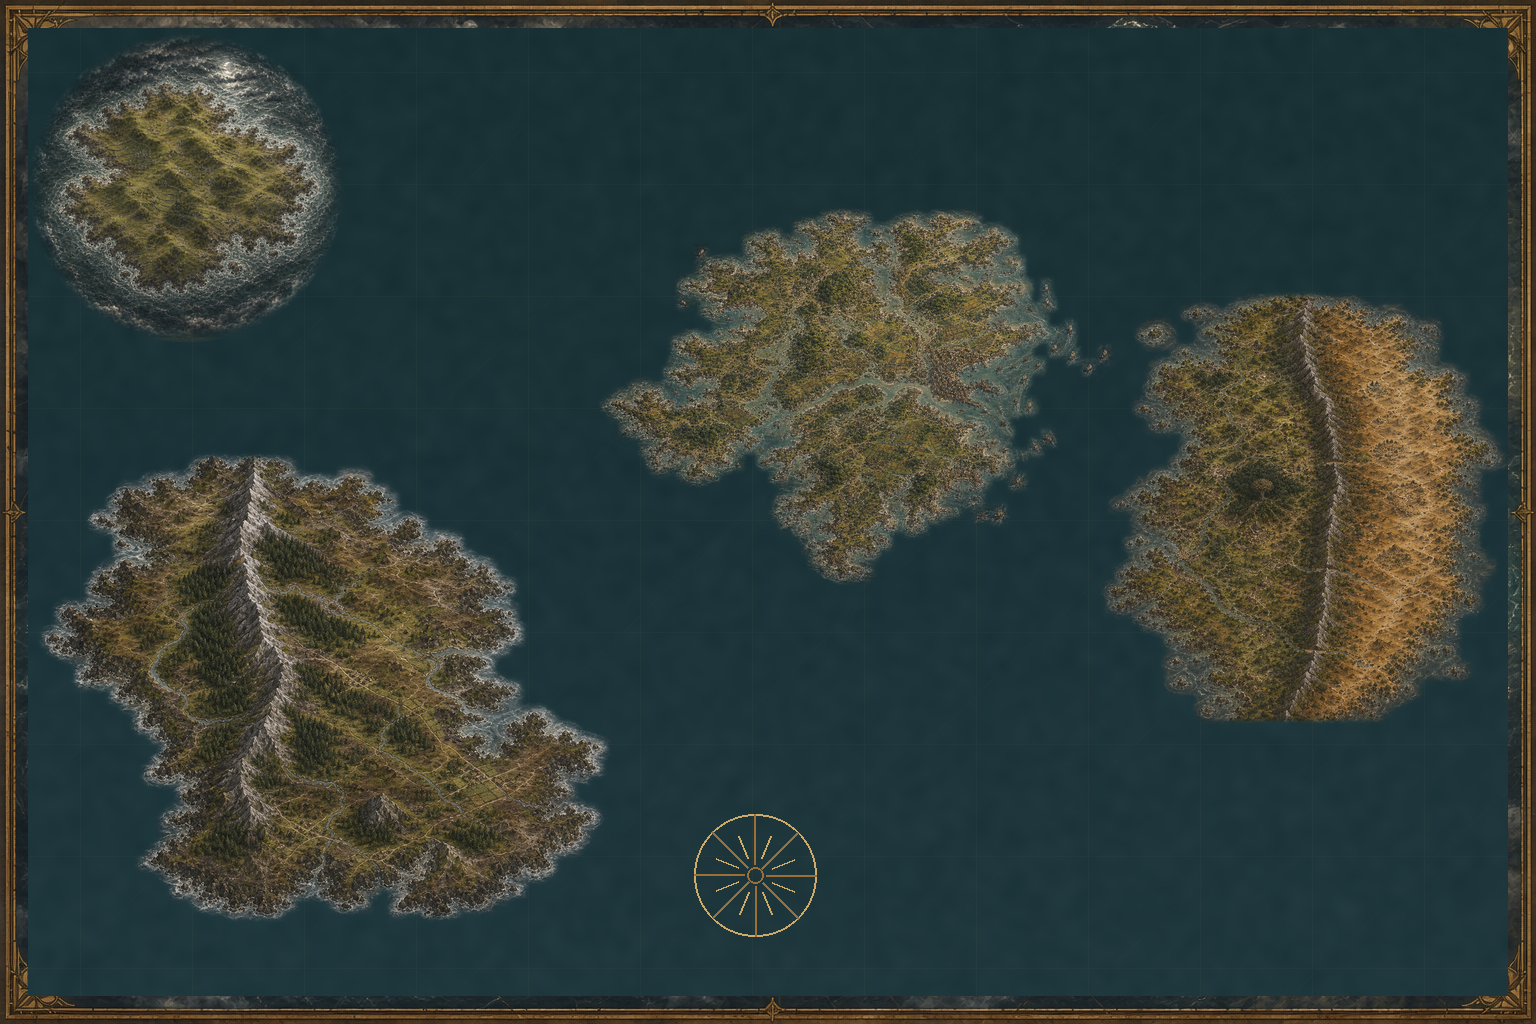
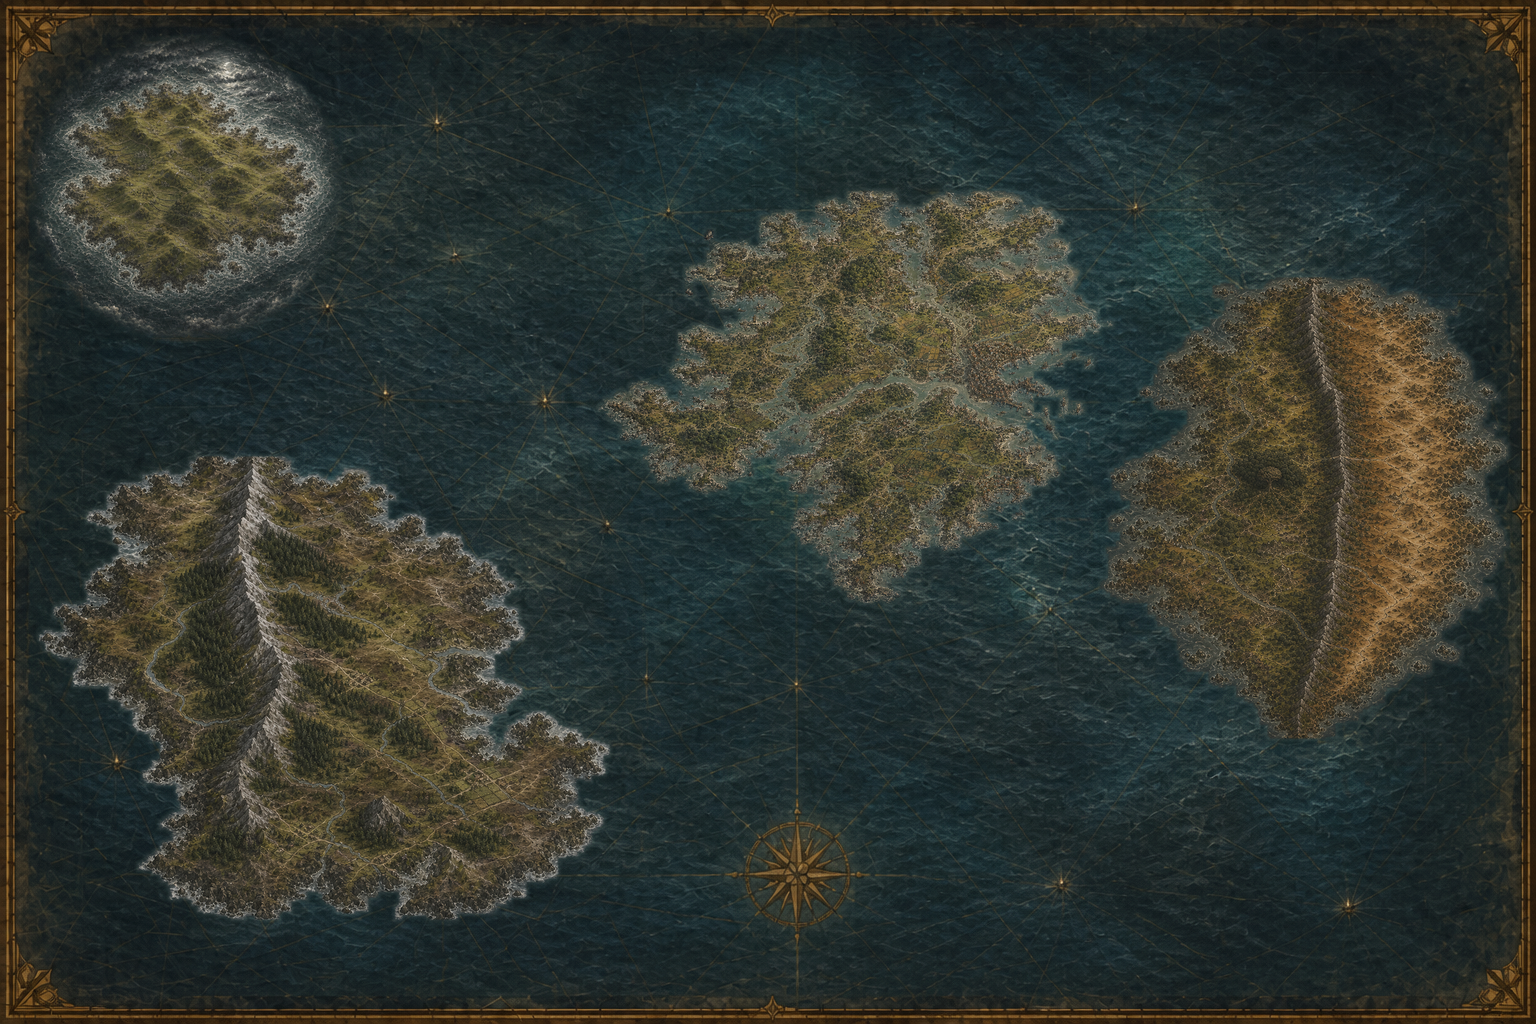
Blend Prototype 3 world atlas

diff --git a/14 - Assets/Maps/build_prototype3_world.py b/14 - Assets/Maps/build_prototype3_world.py
@@ -10,15 +10,15 @@ from __future__ import annotations
 
 from collections import deque
 from pathlib import Path
-import random
 
 import numpy as np
-from PIL import Image, ImageDraw, ImageFilter
+from PIL import Image, ImageChops, ImageEnhance, ImageFilter
 
 
 ROOT = Path(__file__).resolve().parent
 PROTOTYPE = ROOT / "prototype3"
 OUTPUT = PROTOTYPE / "The-Turning-World-Atlas.png"
+OCEAN = PROTOTYPE / "Painted-Ocean-Background.png"
 WIDTH, HEIGHT = 1536, 1024
 
 
@@ -119,15 +119,15 @@ def extract_land(path: Path) -> Image.Image:
     seed[:, :12] = False
     seed[:, -12:] = False
     rough = Image.fromarray(np.uint8(seed) * 255, "L")
-    rough = rough.filter(ImageFilter.MaxFilter(11))
-    rough = rough.filter(ImageFilter.MinFilter(7))
+    rough = rough.filter(ImageFilter.MaxFilter(7))
+    rough = rough.filter(ImageFilter.MinFilter(5))
     component = largest_component(np.asarray(rough) > 127)
     component = fill_holes(component)
 
     mask = Image.fromarray(np.uint8(component) * 255, "L")
     mask = mask.resize(source.size, Image.Resampling.NEAREST)
-    mask = mask.filter(ImageFilter.MaxFilter(9))
-    mask = mask.filter(ImageFilter.GaussianBlur(5))
+    mask = mask.filter(ImageFilter.MaxFilter(3))
+    mask = mask.filter(ImageFilter.GaussianBlur(1.5))
 
     alpha = np.asarray(mask)
     ys, xs = np.where(alpha > 8)
@@ -143,38 +143,11 @@ def extract_land(path: Path) -> Image.Image:
 
 
 def ocean_background() -> Image.Image:
-    """Create a dark portolan ocean while retaining the established frame."""
-    rng = np.random.default_rng(20260831)
-    base = np.zeros((HEIGHT, WIDTH, 3), dtype=np.float32)
-    vertical = np.linspace(0, 1, HEIGHT, dtype=np.float32)[:, None]
-    base[..., 0] = 25 + 6 * vertical
-    base[..., 1] = 48 + 8 * vertical
-    base[..., 2] = 52 + 10 * vertical
-
-    noise = rng.normal(0, 1, (HEIGHT // 8, WIDTH // 8)).astype(np.float32)
-    texture = Image.fromarray(np.uint8(np.clip(128 + noise * 26, 0, 255)), "L")
-    texture = texture.resize((WIDTH, HEIGHT), Image.Resampling.BICUBIC)
-    texture = texture.filter(ImageFilter.GaussianBlur(5))
-    grain = (np.asarray(texture, dtype=np.float32) - 128) / 11
-    base += grain[..., None]
-
-    image = Image.fromarray(np.uint8(np.clip(base, 0, 255)), "RGB").convert("RGBA")
-    overlay = Image.new("RGBA", image.size, (0, 0, 0, 0))
-    draw = ImageDraw.Draw(overlay, "RGBA")
-
-    # Faint graticule and current-lines.
-    for x in range(80, WIDTH, 112):
-        draw.line((x, 24, x, HEIGHT - 24), fill=(177, 151, 100, 10), width=1)
-    for y in range(72, HEIGHT, 112):
-        draw.line((24, y, WIDTH - 24, y), fill=(177, 151, 100, 9), width=1)
-    for offset in range(-HEIGHT, WIDTH, 210):
-        draw.line(
-            (offset, HEIGHT - 24, offset + HEIGHT, 24),
-            fill=(177, 151, 100, 6),
-            width=1,
-        )
-
-    return Image.alpha_composite(image, overlay)
+    """Load the painted ocean plate shared by every composited landmass."""
+    image = Image.open(OCEAN).convert("RGBA")
+    if image.size != (WIDTH, HEIGHT):
+        image = image.resize((WIDTH, HEIGHT), Image.Resampling.LANCZOS)
+    return image
 
 
 def resize_to_fit(image: Image.Image, width: int, height: int) -> Image.Image:
@@ -191,8 +164,30 @@ def paste_centered(
 ) -> None:
     left, top, right, bottom = box
     fitted = resize_to_fit(image, right - left, bottom - top)
+    fitted = ImageEnhance.Color(fitted).enhance(0.92)
+    fitted = ImageEnhance.Contrast(fitted).enhance(0.96)
     x = left + ((right - left) - fitted.width) // 2
     y = top + ((bottom - top) - fitted.height) // 2
+
+    # A dark wet edge and a narrow broken-surf edge seat the cutout into the
+    # shared ocean. Both derive from the exact master alpha, so neither changes
+    # the coastline.
+    alpha = fitted.getchannel("A")
+    wet_edge = alpha.filter(ImageFilter.MaxFilter(9)).filter(
+        ImageFilter.GaussianBlur(5)
+    )
+    wet_edge = wet_edge.point(lambda value: round(value * 0.12))
+    wet_layer = Image.new("RGBA", fitted.size, (8, 25, 28, 0))
+    wet_layer.putalpha(wet_edge)
+    canvas.alpha_composite(wet_layer, (x, y + 2))
+
+    outer = alpha.filter(ImageFilter.MaxFilter(5))
+    surf = ImageChops.subtract(outer, alpha)
+    surf = surf.filter(ImageFilter.GaussianBlur(1))
+    surf = surf.point(lambda value: round(value * 0.16))
+    surf_layer = Image.new("RGBA", fitted.size, (155, 176, 163, 0))
+    surf_layer.putalpha(surf)
+    canvas.alpha_composite(surf_layer, (x, y))
     canvas.alpha_composite(fitted, (x, y))
 
 
@@ -213,39 +208,17 @@ def storm_isle() -> Image.Image:
     return crop
 
 
-def draw_compass(canvas: Image.Image) -> None:
-    draw = ImageDraw.Draw(canvas, "RGBA")
-    cx, cy, radius = 755, 875, 61
-    ink = (155, 111, 54, 205)
-    faint = (205, 170, 104, 95)
-    draw.ellipse(
-        (cx - radius, cy - radius, cx + radius, cy + radius),
-        outline=faint,
-        width=2,
-    )
-    for step in range(16):
-        angle = np.pi * step / 8
-        inner = 11 if step % 2 == 0 else 19
-        outer = radius if step % 2 == 0 else 43
-        x1 = cx + int(np.sin(angle) * inner)
-        y1 = cy - int(np.cos(angle) * inner)
-        x2 = cx + int(np.sin(angle) * outer)
-        y2 = cy - int(np.cos(angle) * outer)
-        draw.line((x1, y1, x2, y2), fill=ink if step % 2 == 0 else faint, width=2)
-    draw.ellipse((cx - 8, cy - 8, cx + 8, cy + 8), outline=ink, width=2)
+def unify_atlas_hand(canvas: Image.Image) -> Image.Image:
+    """Apply one final wash and grain over sea and land together."""
+    wash = Image.new("RGBA", canvas.size, (34, 53, 46, 12))
+    canvas = Image.alpha_composite(canvas, wash)
 
-
-def restore_frame(canvas: Image.Image) -> None:
-    """Copy the established Prototype 3 parchment frame over the composite."""
-    frame = Image.open(OUTPUT).convert("RGBA")
-    strips = (
-        (0, 0, WIDTH, 28),
-        (0, HEIGHT - 28, WIDTH, HEIGHT),
-        (0, 0, 28, HEIGHT),
-        (WIDTH - 28, 0, WIDTH, HEIGHT),
-    )
-    for box in strips:
-        canvas.alpha_composite(frame.crop(box), (box[0], box[1]))
+    rng = np.random.default_rng(20260831)
+    noise = rng.normal(128, 18, (HEIGHT, WIDTH)).clip(0, 255).astype(np.uint8)
+    grain = Image.fromarray(noise, "L").filter(ImageFilter.GaussianBlur(0.35))
+    grain_layer = Image.new("RGBA", canvas.size, (174, 146, 94, 0))
+    grain_layer.putalpha(grain.point(lambda value: abs(value - 128) // 5))
+    return Image.alpha_composite(canvas, grain_layer)
 
 
 def main() -> None:
@@ -270,12 +243,10 @@ def main() -> None:
         (1095, 22, 1514, 995),
     )
 
-    draw_compass(canvas)
-    restore_frame(canvas)
+    canvas = unify_atlas_hand(canvas)
     canvas.convert("RGB").save(OUTPUT, quality=96)
     print(f"Wrote {OUTPUT}")
 
 
 if __name__ == "__main__":
-    random.seed(20260831)
     main()

diff --git a/14 - Assets/Maps/Atlas Prototype Review.md b/14 - Assets/Maps/Atlas Prototype Review.md
@@ -57,7 +57,7 @@ The cleanest option for later annotation: pale vellum, fine hachures, restrained
 
 The most atmospheric option: stronger sea states, rain, forest mass, and the wet/dry divide across Maiethorn.
 
-**Consistency rule:** the four continent sheets are the masters. The world sheet is a deterministic composite of those exact painted landforms, not a separate generation. Coastlines, mountain chains, forests, rivers, and other visible features therefore match at both scales. Rebuild it with `build_prototype3_world.py` after replacing any continent master.
+**Consistency rule:** the four continent sheets are the masters. The world sheet is a deterministic composite of those exact painted landforms, not a separate generation. Coastlines, mountain chains, forests, rivers, and other visible features therefore match at both scales. `Painted-Ocean-Background.png` supplies one continuous portolan sea, current texture, frame, and compass beneath the masters; it is a build plate, not a separate handout. Rebuild with `build_prototype3_world.py` after replacing any continent master.
 
 ![[prototype3/The-Turning-World-Atlas.png]]
 
